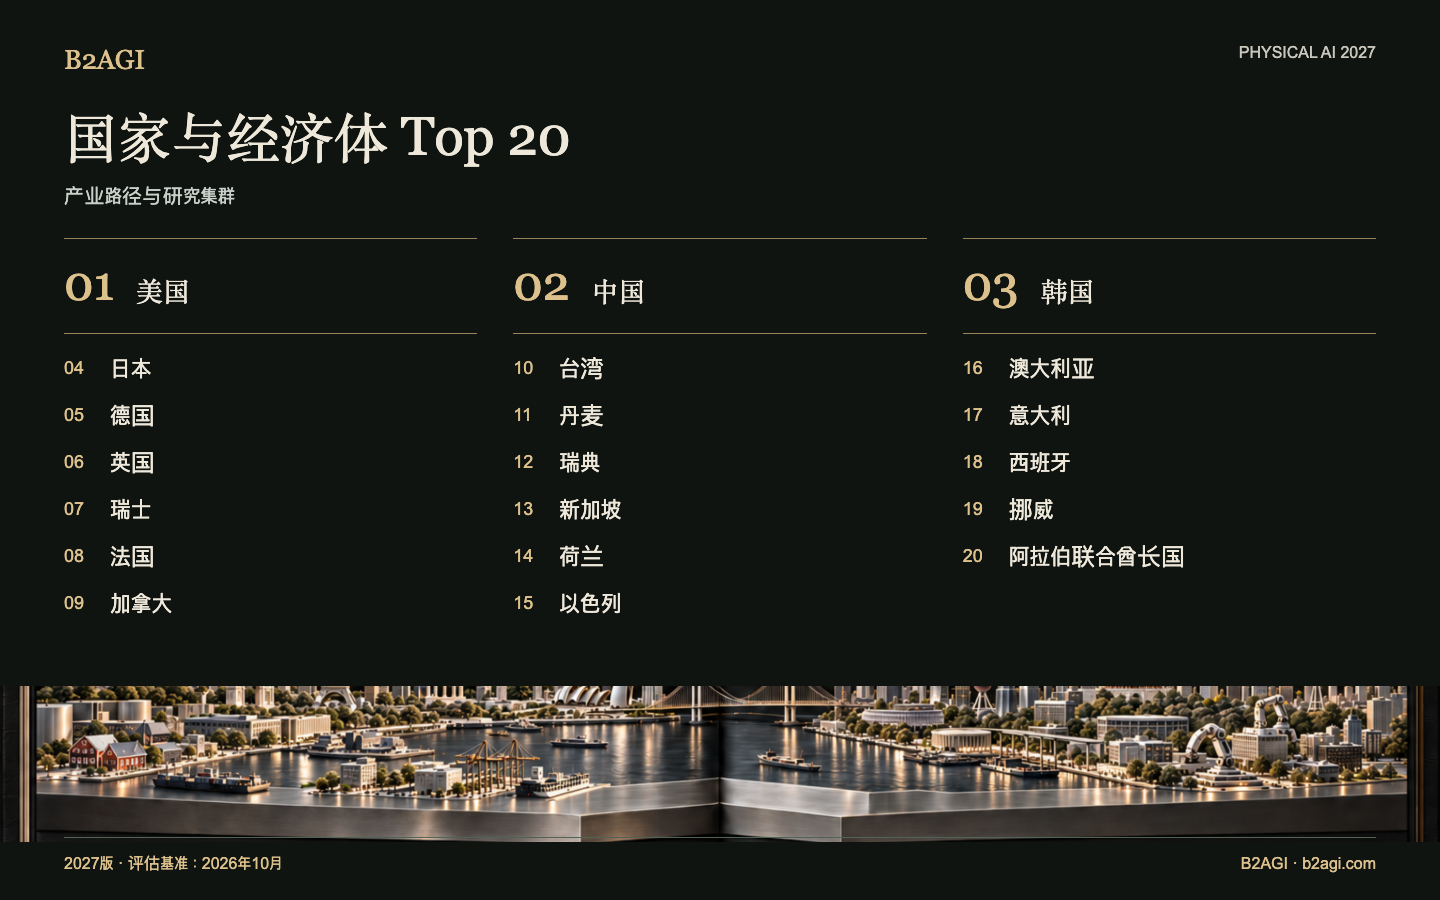
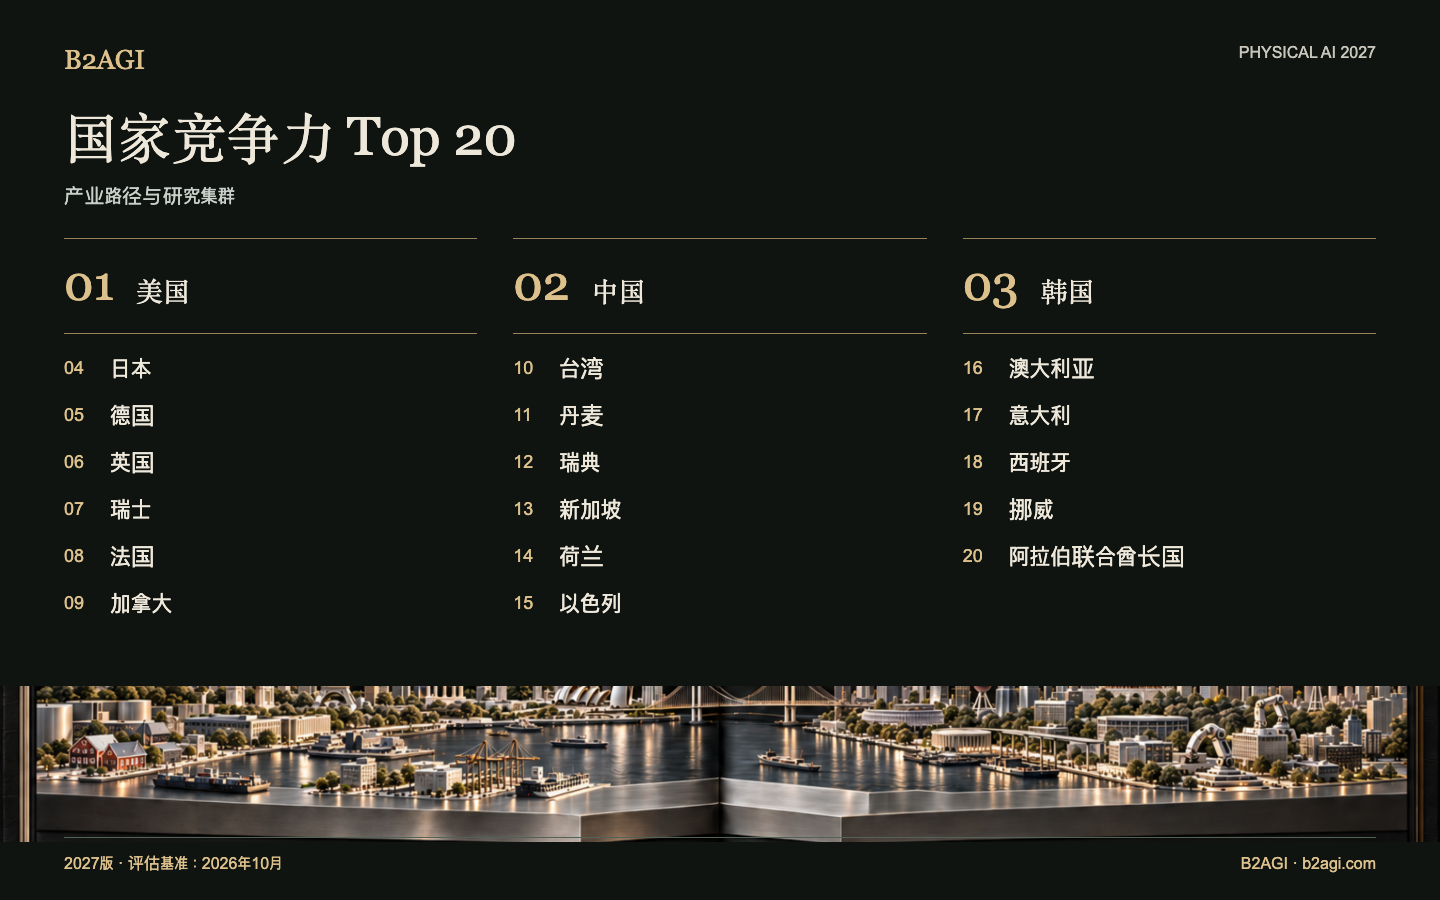
Align country overview titles with National Competitiveness

Changed region(s): [[0.125, 0.1244, 0.4062, 0.1867]]

diff --git a/README.md b/README.md
@@ -2,7 +2,7 @@
 
 [English](README.md) · [한국어](i18n/ko/README.md) · [简体中文](i18n/zh-CN/README.md)
 
-[Country Atlas · Top 20](#country-overview) · [Cluster Atlas · Top 20](CLUSTERS.md) · [Current 100 · Companies](CURRENT_100.md) · [Next 100 · Companies](NEXT_100.md) · [Influence 50 · People](INFLUENCE_50.md) · [Ecosystem Builders 50 · People](ECOSYSTEM_BUILDERS_50.md)
+[National Competitiveness · Top 20](#country-overview) · [Cluster Atlas · Top 20](CLUSTERS.md) · [Current 100 · Companies](CURRENT_100.md) · [Next 100 · Companies](NEXT_100.md) · [Influence 50 · People](INFLUENCE_50.md) · [Ecosystem Builders 50 · People](ECOSYSTEM_BUILDERS_50.md)
 
 ## Edition directory
 
@@ -20,7 +20,7 @@
 
 [Full JSON](data/ranking2027.en.json) · [Full CSV](data/ranking2027.en.csv) · [Source references](data/source-references.en.json) · [Search guide](SEARCH_GUIDE.md)
 
-## Country Atlas · Top 20
+## National Competitiveness · Top 20
 
 ![Country Atlas Top 20: United States, China, South Korea and the complete 20-country assessment](assets/country-atlas-overview.png)
 

diff --git a/i18n/ko/COUNTRIES.md b/i18n/ko/COUNTRIES.md
@@ -1,6 +1,6 @@
-# 국가·경제권 Top 20
+# 국가 경쟁력 Top 20
 
-![국가·경제권 Top 20](../../assets/country-atlas-overview-ko.png)
+![국가 경쟁력 Top 20](../../assets/country-atlas-overview-ko.png)
 
 20개 국가·경제권의 연구 역량과 제품 개발, 고객 운영을 비교했다. 미래 산업 역량도 평가에 포함했다. 순위는 다섯 관점에 따른 정성 평가이며 종합 점수를 합산한 결과가 아니다.
 

diff --git a/i18n/zh-CN/COUNTRIES.md b/i18n/zh-CN/COUNTRIES.md
@@ -1,6 +1,6 @@
-# 国家与经济体 Top 20
+# 国家竞争力 Top 20
 
-![国家与经济体 Top 20](../../assets/country-atlas-overview-zh-CN.png)
+![国家竞争力 Top 20](../../assets/country-atlas-overview-zh-CN.png)
 
 比较20个国家与经济体的研究能力、产品开发、客户运营及未来产业能力。排名依据五个分析视角作出定性判断，未采用综合分数。
 

diff --git a/i18n/ko/README.md b/i18n/ko/README.md
@@ -4,7 +4,7 @@
 
 | 분야 | 항목 |
 | --- | ---: |
-| [국가·경제권 Top 20](COUNTRIES.md) | 20 |
+| [국가 경쟁력 Top 20](COUNTRIES.md) | 20 |
 | [도시·산업 클러스터 Top 20](CLUSTERS.md) | 20 |
 | [기업 Current 100](CURRENT_100.md) | 100 |
 | [기업 Next 100](NEXT_100.md) | 100 |

diff --git a/i18n/zh-CN/README.md b/i18n/zh-CN/README.md
@@ -4,7 +4,7 @@
 
 | 类别 | 条目 |
 | --- | ---: |
-| [国家与经济体 Top 20](COUNTRIES.md) | 20 |
+| [国家竞争力 Top 20](COUNTRIES.md) | 20 |
 | [城市与产业集群 Top 20](CLUSTERS.md) | 20 |
 | [企业 Current 100](CURRENT_100.md) | 100 |
 | [企业 Next 100](NEXT_100.md) | 100 |
